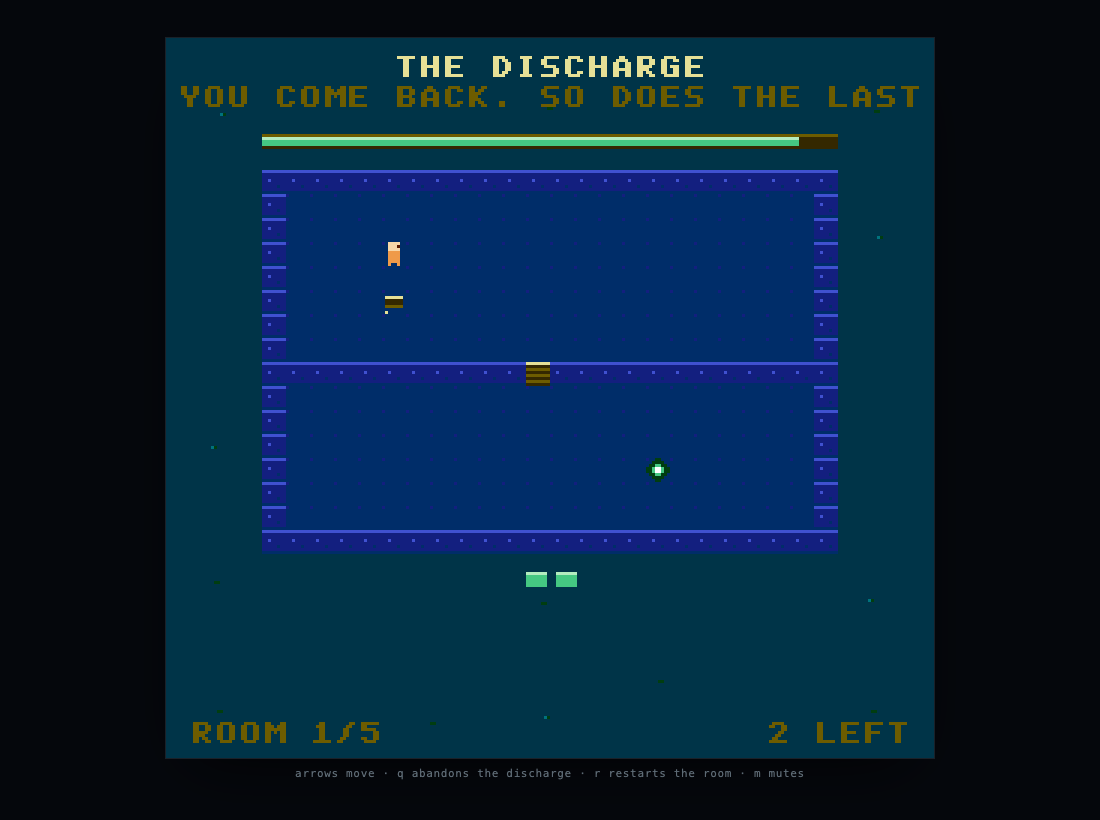
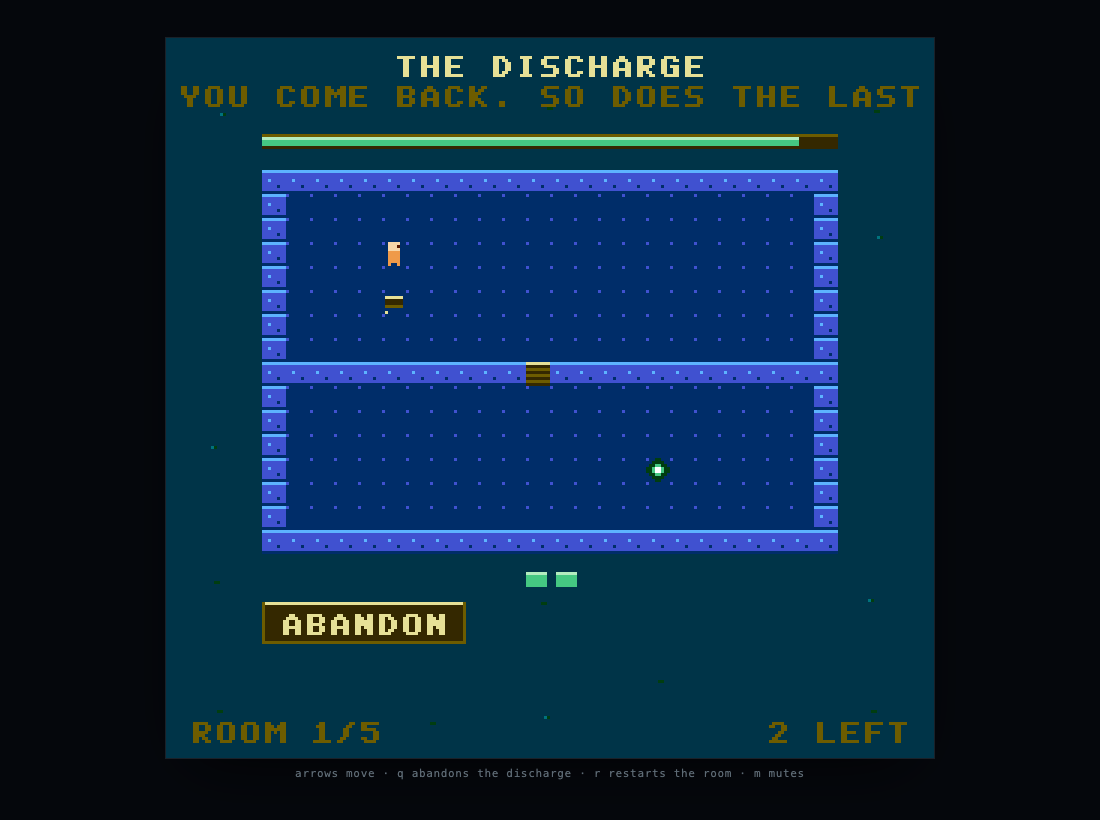
DESIGN: the half the harness cannot see, and the touch button
Records the three palette faults the new backdrop-colour check caught before
anything was drawn, the room that had no inside, the afterimages that read as
four more people, and the band below the room that discarded ten seconds of a
plan on a stray thumb.

And the honest note about harnesses: three times tonight a test passed by
never exercising the thing it tested, so stress.mjs now reports how much it
actually did and says THE HARNESS BARELY RAN rather than reporting a pass.

Changed region(s): [[0.2164, 0.1829, 0.7727, 0.6707], [0.2164, 0.7317, 0.4327, 0.7927]]

diff --git a/DESIGN.md b/DESIGN.md
@@ -215,3 +215,66 @@ Written as it happened. Entries are added when something is established or somet
 | two voices | two plates HIGH on the same tick | 3 |
 | the long room | a door on the way to the core must be held open at the end too | 3 |
 | the keeper | all of it | 4 |
+
+---
+
+## 5. The half the harness cannot see
+
+Every bug above was found by a tool. Everything below was found by looking at a screenshot, which
+is the lesson this project keeps paying for: **no tool in any of these four repos imports
+`render.mjs`**, so a soak harness proves the simulation is sound and proves nothing about the half
+of the code a player experiences.
+
+- **The palette check now refuses an entry that holds the backdrop colour**, and caught three faults
+  before a single frame was drawn. The sea would have vanished as the bank died; the core's whiteout
+  would have erased the room it was celebrating; and `C.pale` pointed at `$20`, which is the same
+  `#fefeff` as `$30`, so the bright end of the ramp had two identical steps and `pale` was white
+  under another name. Some version of this trap has now cost four games part of a frame. It is
+  checked rather than remembered.
+- **The sea was drawn behind the room as well as around it**, and the deck was filled from the same
+  palette — so the floor and the water were the same darkness and the room had no inside.
+- **The deck and the bulkheads were near-neighbour blues.** The structure of the room, which is the
+  thing the entire game is planned against, was being carried by a one-pixel highlight along the top
+  of each wall.
+- **The afterimages were drawn solid**, which made four of them read as four more people in a
+  slightly different colour. Dithered every frame, they read as light burned into the dark, and the
+  live body becomes the only solid figure in the room.
+- **The toast printed on top of the room's subtitle**, so both became unreadable at exactly the
+  moment the toast had something to say. It takes the subtitle's place instead.
+- **Labels ran off both edges of the screen.** `centre` does not wrap and has no ellipsis; five of
+  the first five labels were too long. They are clipped, and the lengths are checked.
+
+## 6. The touch bug, found the same way as the last three
+
+`tools/mobile.mjs` drives the live game in a 390×844 touch context. It reported the room advancing
+only 48 ticks over eighteen seconds of tapping — because the entire band below the room abandoned
+the current discharge, and the test kept hitting it.
+
+That is not a test artefact. On a phone it means a stray thumb throws away up to ten seconds of a
+plan, with no warning and no undo, in a game whose unit of play is a plan. It is a 68×14 button now,
+and **the hit box is exported by the renderer rather than restated in the input layer** — because
+Lockout shipped with a hit box twelve pixels narrower than the card it was testing, and The Far
+Light shipped a verifier that reimplemented the physics it was verifying. Two copies of a layout are
+two layouts.
+
+After the fix the same test accumulates 435 ticks and walks the body across the room.
+
+## 7. Verification, as it stands
+
+| | |
+|---|---|
+| `tools/lint.mjs` | can anything be reached at all — asked before anything harder |
+| `tools/solve.mjs` | the minimum discharges per room, every plan judged by the real `run()` |
+| `tools/plans.mjs` | does each candidate plan do what its label says |
+| `tools/play.mjs` | every room played start to finish through `newGame`/`step`, every tick checked |
+| `tools/stress.mjs` | 500 runs / 500 hours of adversarial input, and it reports how much it did |
+| `tools/robust.mjs` | restarts, resizes, backgrounding, mute spam, audio-node leaks |
+| `tools/mobile.mjs` | (in Filament) all four games on a phone |
+
+**A harness that pressed nothing proves nothing.** Three separate times tonight a test passed by
+never exercising the thing it tested: a solver reporting "no solution" because its plans were never
+really tried, the same solver's push loop missed by a fix applied to three of its four sites, and
+`stress.mjs` pressing `NONE` for three hundred runs because `rng.int` takes two arguments and was
+given one — `DIRS[NaN]` is `undefined`, and `undefined & 15` is `0`. So the soak now counts the
+distinct inputs it issued, the steps taken, the crates moved and the ticks on which a plate was held,
+and says **THE HARNESS BARELY RAN** rather than reporting a pass.
